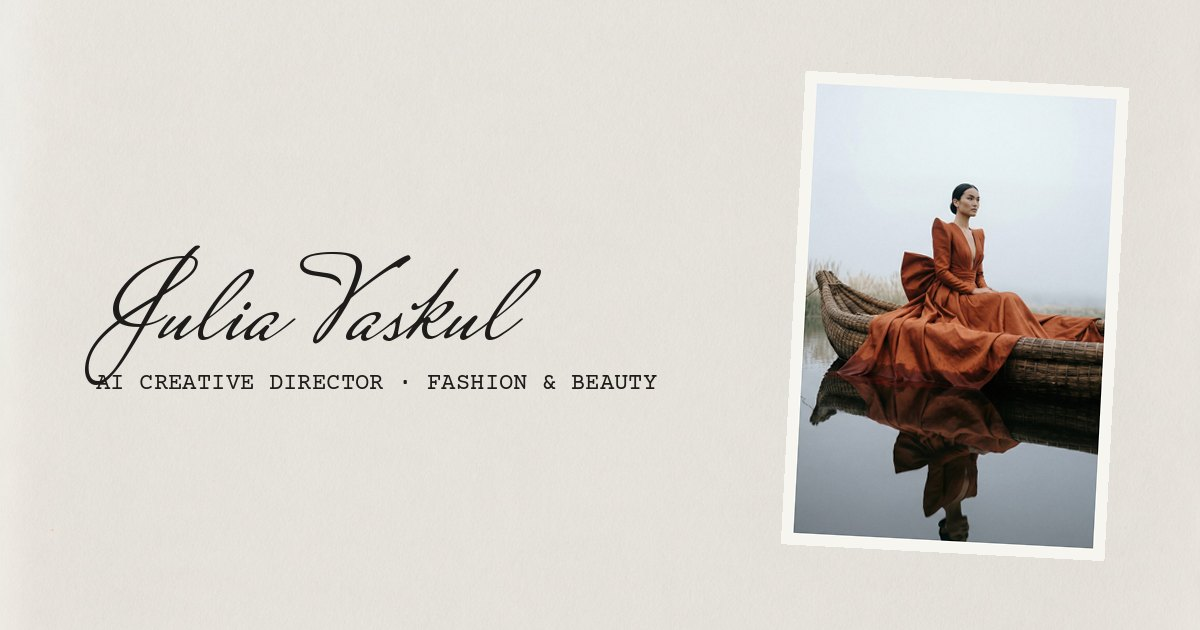
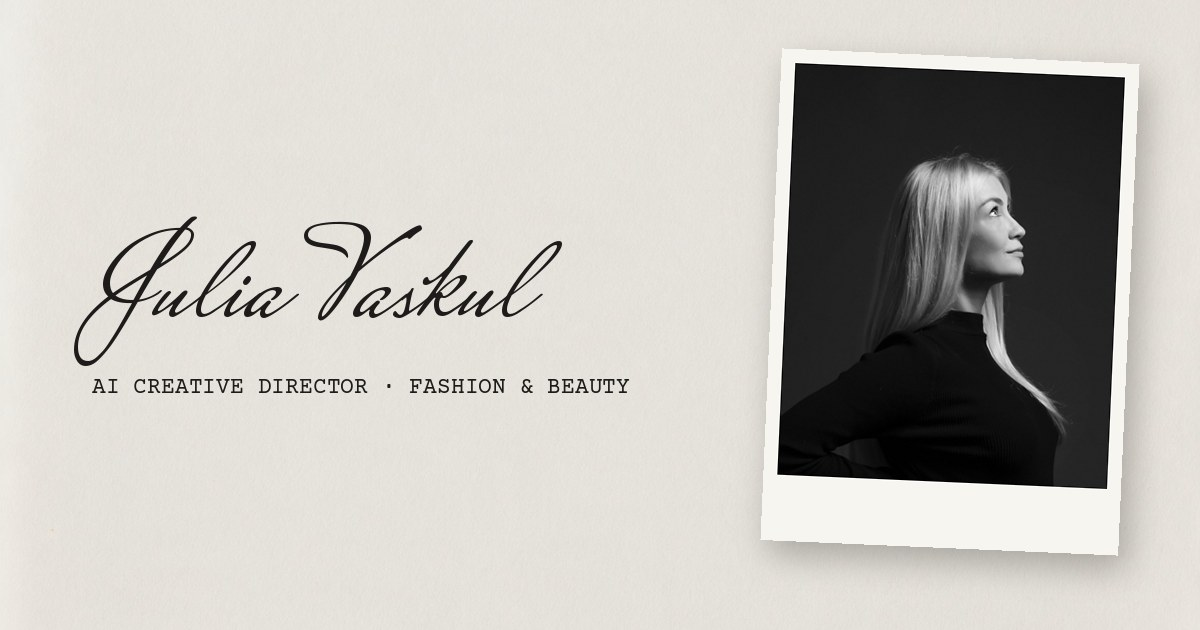
Share preview: Julia's portrait
Claude-Session: https://claude.ai/code/session_01HJUg4cao9rH2bKub3hYdQU

Changed region(s): [[0.6475, 0.0905, 0.9558, 0.9048], [0.0617, 0.3317, 0.555, 0.6333]]

diff --git a/index.html b/index.html
@@ -12,7 +12,7 @@
 <meta property="og:type" content="website">
 <meta property="og:title" content="Julia Vaskul — AI Creative Director">
 <meta property="og:description" content="Fashion and beauty campaigns and films, fully AI-generated.">
-<meta property="og:image" content="https://juliavaskul.github.io/og.jpg">
+<meta property="og:image" content="https://juliavaskul.github.io/og.jpg?v=2">
 <meta property="og:url" content="https://juliavaskul.github.io/">
 <meta name="twitter:card" content="summary_large_image">
 <link rel="icon" type="image/png" sizes="32x32" href="favicon-32.png">
